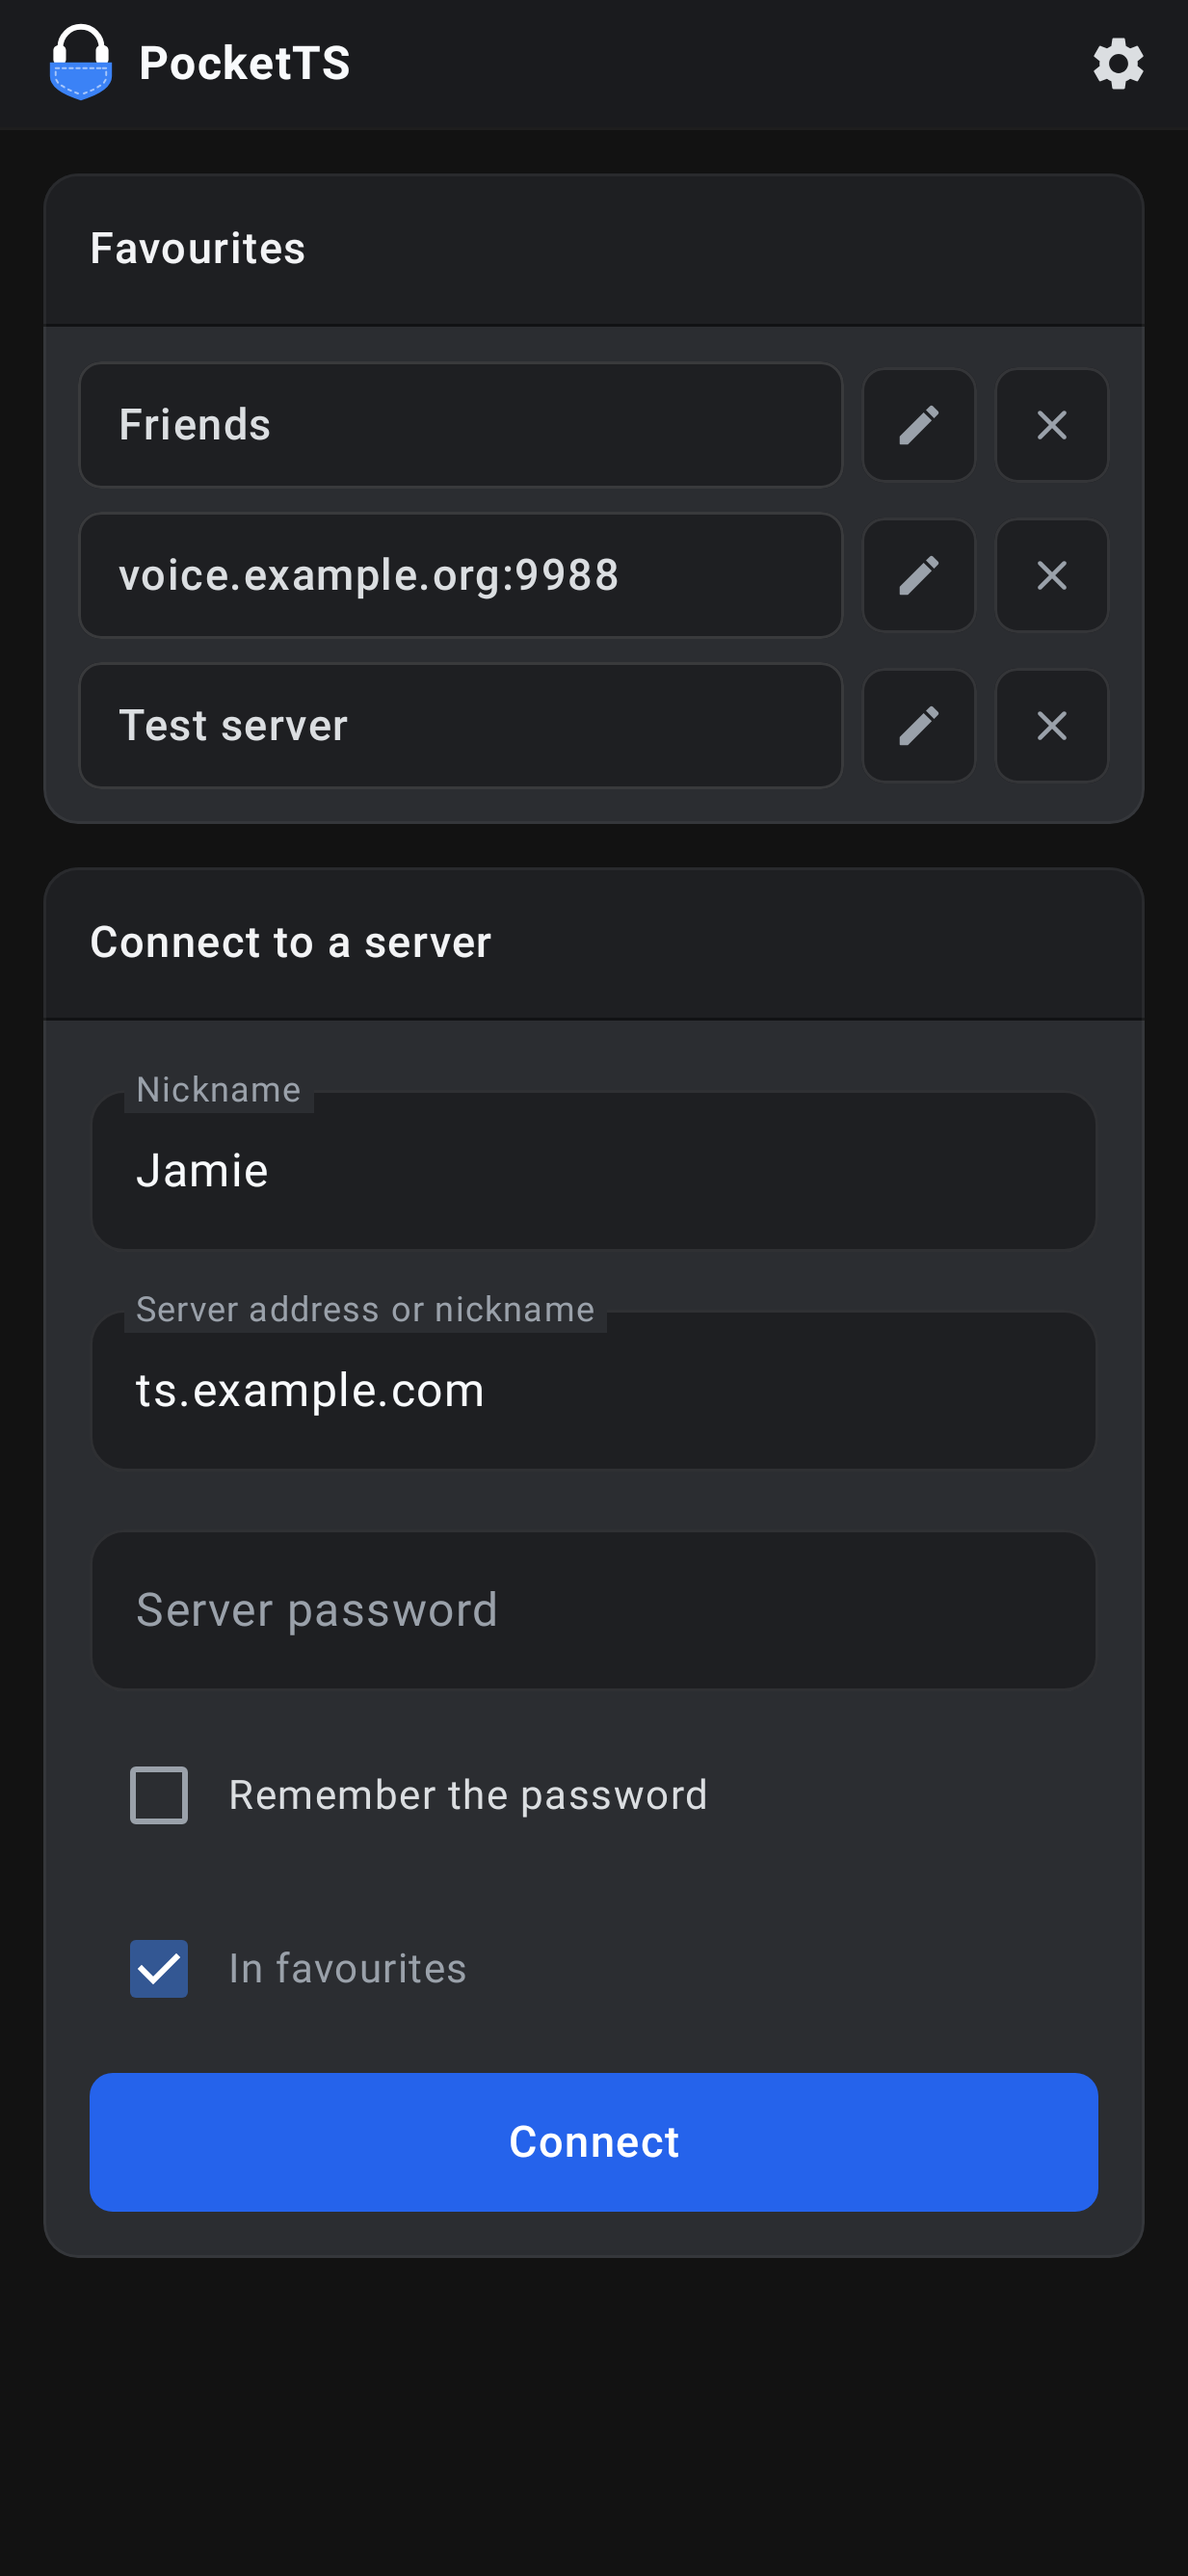
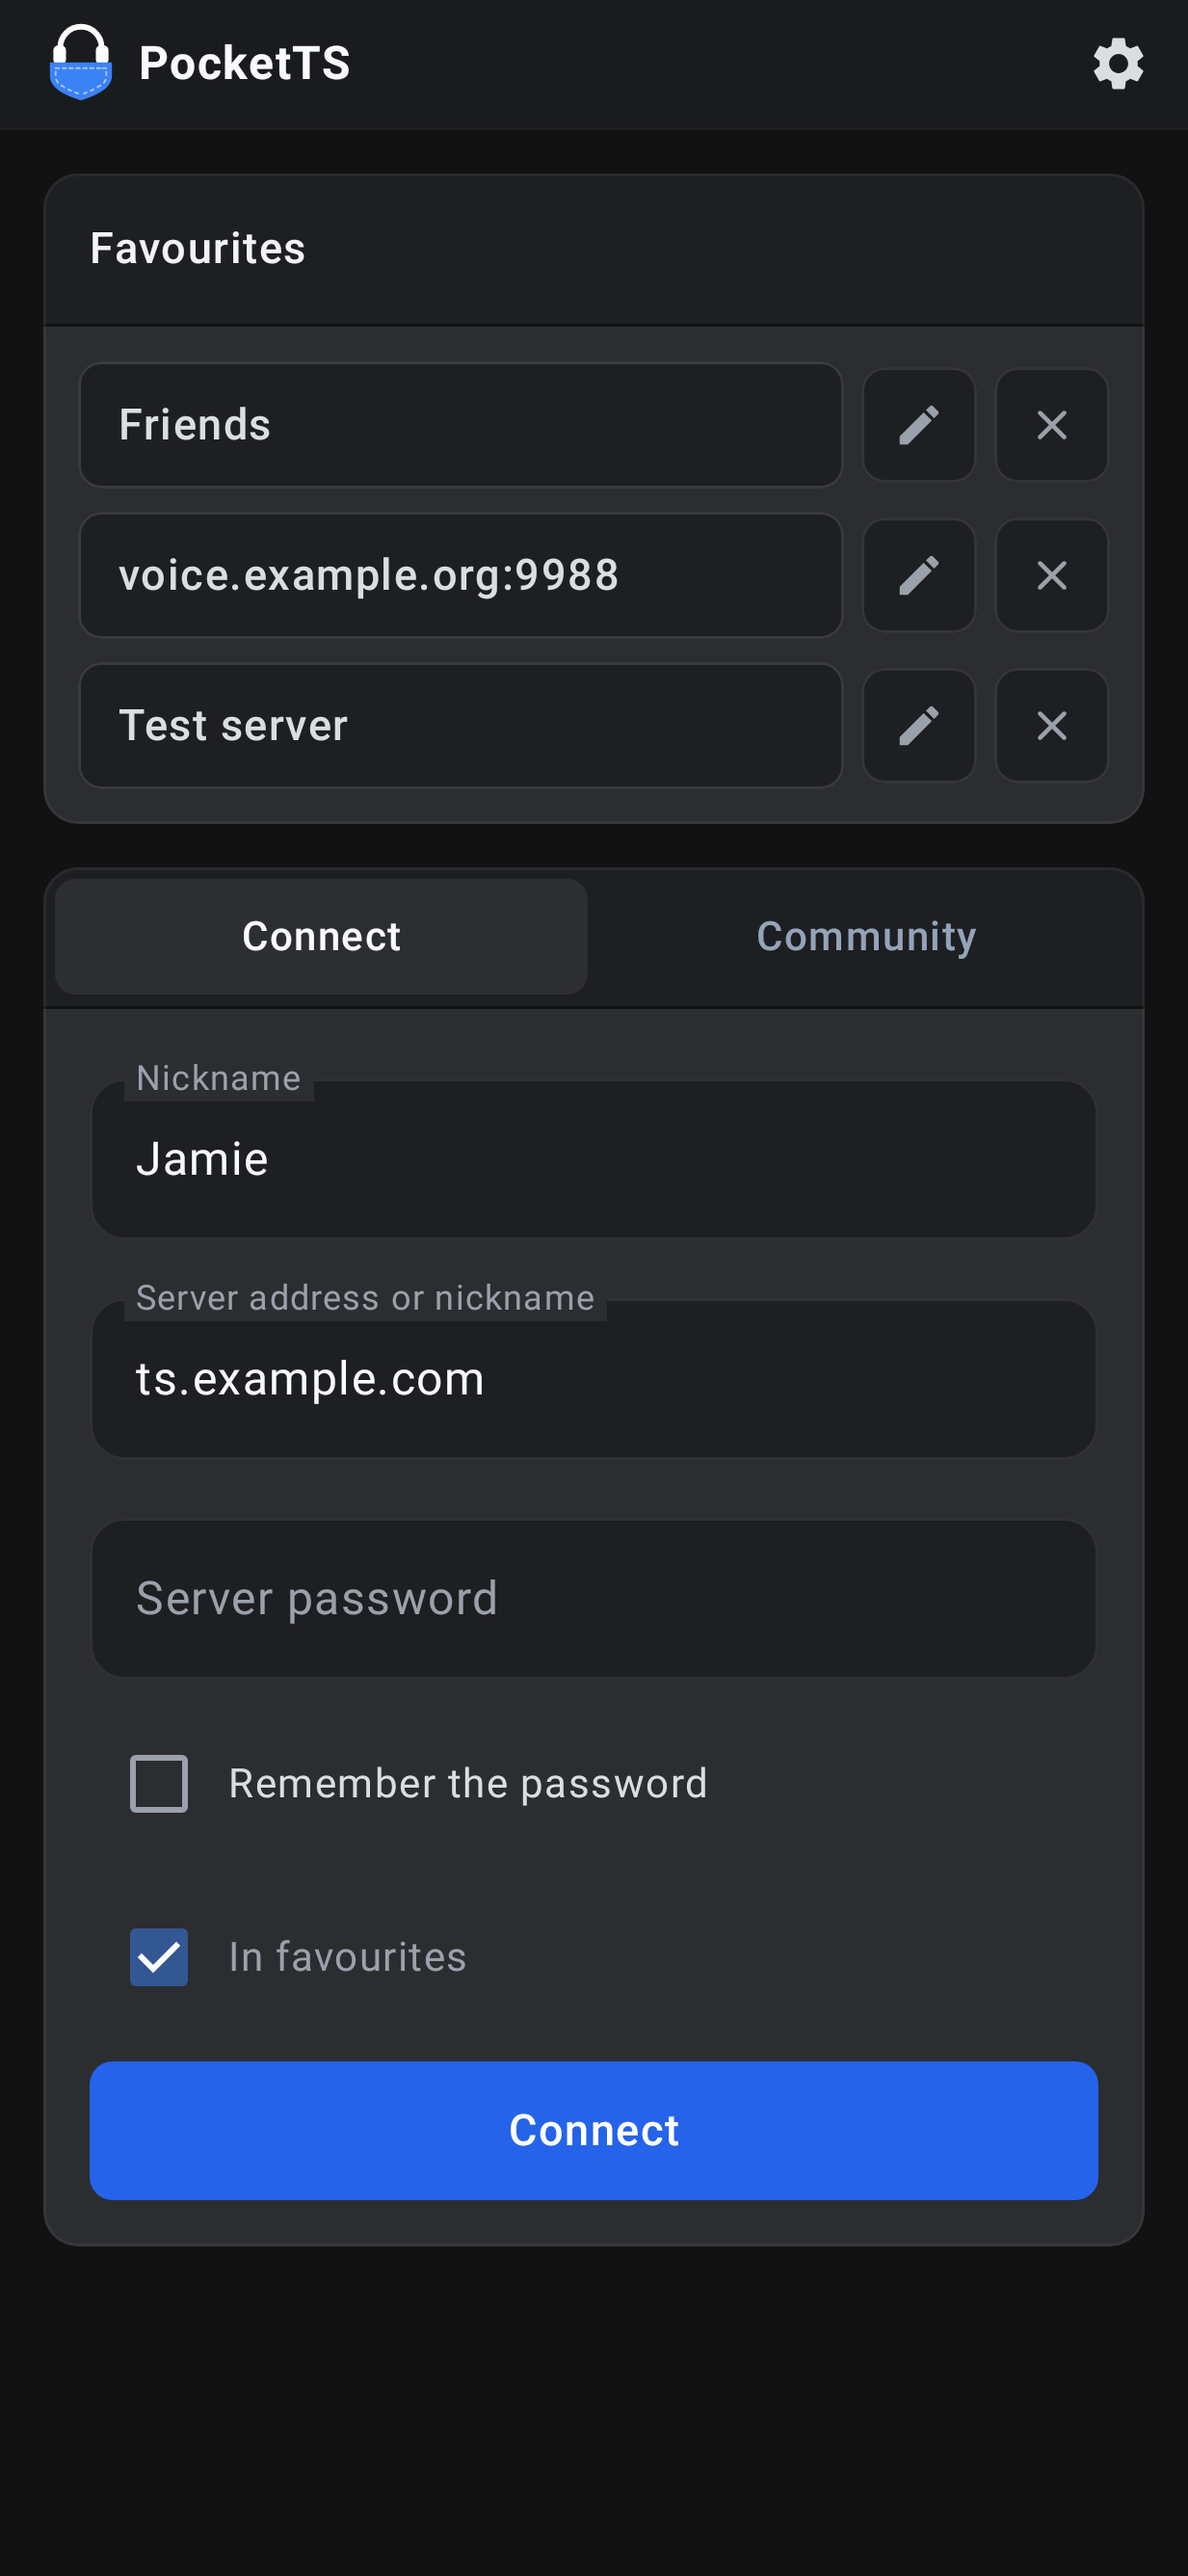
Connect screen: TeamSpeak's community servers on their own page
TeamSpeak's six official public community servers (worldwide, Europe
East, EMEA, Asia-Pacific, Latin America, North America) are one tap
away. The connect panel has two pages, Connect and Community, with a
switch as its top bar and a swipe between them; the Community page has
the same nickname field, a note that the servers are run by TeamSpeak
and that PocketTS is unofficial, and the servers. Only TeamSpeak's own
servers are listed, by the address or server nickname the TeamSpeak app
shows. In all eight languages; README and the Play listing mention it.

diff --git a/app/src/main/kotlin/io/github/korppujauho/pocketts/ui/ConnectScreen.kt b/app/src/main/kotlin/io/github/korppujauho/pocketts/ui/ConnectScreen.kt
@@ -16,6 +16,7 @@ import androidx.compose.material.icons.rounded.Edit
 import androidx.compose.foundation.layout.WindowInsets
 import androidx.compose.foundation.layout.fillMaxSize
 import androidx.compose.foundation.layout.fillMaxWidth
+import androidx.compose.foundation.layout.height
 import androidx.compose.foundation.layout.imePadding
 import androidx.compose.foundation.layout.padding
 import androidx.compose.foundation.layout.safeDrawing
@@ -46,6 +47,9 @@ import androidx.compose.ui.text.style.TextOverflow
 import androidx.compose.ui.unit.dp
 import androidx.compose.ui.unit.sp
 import androidx.compose.ui.res.stringResource
+import androidx.compose.foundation.layout.Box
+import androidx.compose.foundation.selection.selectable
+import kotlinx.coroutines.launch
 import io.github.korppujauho.pocketts.Favorite
 import io.github.korppujauho.pocketts.R
 
@@ -97,20 +101,34 @@ fun ConnectScreen(
                     }
                 }
             }
-            Panel(Modifier.fillMaxWidth(), header = {
-                Text(stringResource(R.string.connect_title), color = Ts.title, fontWeight = FontWeight.SemiBold, fontSize = 15.sp)
-            }) {
-                Column(Modifier.padding(16.dp), verticalArrangement = Arrangement.spacedBy(12.dp)) {
-                    TsField(nick, { nick = it }, stringResource(R.string.nickname))
-                    TsField(addr, { addr = it }, stringResource(R.string.server_address), placeholder = "ts.example.com", keyboard = KeyboardType.Uri)
-                    TsField(pw, { pw = it }, stringResource(R.string.server_password), password = true, imeAction = ImeAction.Go)
-                    CheckRow(stringResource(R.string.remember_password), remember) { remember = it }
-                    // Always there; ticked (and fixed) for a server that already is a favourite
-                    CheckRow(stringResource(if (known) R.string.favourites_in else R.string.favourites_save), favorite || known, enabled = !known) { favorite = it }
-                    UpdateCard()
-                    PrimaryButton(
-                        stringResource(R.string.connect), enabled = nick.isNotBlank() && addr.isNotBlank(), modifier = Modifier.fillMaxWidth(),
-                    ) { actions.connect(addr.trim(), nick.trim(), pw, remember, favorite && !known) }
+            // Connecting by address, and TeamSpeak's community servers: two pages of one panel, its switch on top, and
+            // a swipe goes between them too
+            val pages = androidx.compose.foundation.pager.rememberPagerState { 2 }
+            val scope = androidx.compose.runtime.rememberCoroutineScope()
+            Column(
+                Modifier.fillMaxWidth().clip(RoundedCornerShape(12.dp)).background(Ts.panel)
+                    .border(1.dp, Ts.hairline, RoundedCornerShape(12.dp)),
+            ) {
+                PageSwitch(pages.currentPage) { scope.launch { pages.animateScrollToPage(it) } }
+                Box(Modifier.fillMaxWidth().height(1.dp).background(Color(0xFF111214)))
+                androidx.compose.foundation.pager.HorizontalPager(pages, Modifier.fillMaxWidth(), verticalAlignment = Alignment.Top) { page ->
+                    Column(Modifier.padding(16.dp), verticalArrangement = Arrangement.spacedBy(12.dp)) {
+                        // The same nickname on both pages
+                        TsField(nick, { nick = it }, stringResource(R.string.nickname))
+                        if (page == 0) {
+                            TsField(addr, { addr = it }, stringResource(R.string.server_address), placeholder = "ts.example.com", keyboard = KeyboardType.Uri)
+                            TsField(pw, { pw = it }, stringResource(R.string.server_password), password = true, imeAction = ImeAction.Go)
+                            CheckRow(stringResource(R.string.remember_password), remember) { remember = it }
+                            // Always there; ticked (and fixed) for a server that already is a favourite
+                            CheckRow(stringResource(if (known) R.string.favourites_in else R.string.favourites_save), favorite || known, enabled = !known) { favorite = it }
+                            UpdateCard()
+                            PrimaryButton(
+                                stringResource(R.string.connect), enabled = nick.isNotBlank() && addr.isNotBlank(), modifier = Modifier.fillMaxWidth(),
+                            ) { actions.connect(addr.trim(), nick.trim(), pw, remember, favorite && !known) }
+                        } else {
+                            CommunityServers(nick.trim()) { actions.connect(it, nick.trim(), "", false, false) }
+                        }
+                    }
                 }
             }
         }
@@ -122,6 +140,49 @@ fun ConnectScreen(
     editing?.let { f ->
         FavoriteDialog(f, onSave = { actions.saveFavorite(f, it); editing = null }, onDelete = { actions.removeFavorite(f); editing = null }) {
             editing = null
+        }
+    }
+}
+
+/** The panel's top bar: its two pages, Connect and the community servers, as the server screen's Channels/Chat switch. */
+@Composable
+private fun PageSwitch(page: Int, onPage: (Int) -> Unit) {
+    Row(Modifier.fillMaxWidth().background(Ts.card).padding(4.dp), horizontalArrangement = Arrangement.spacedBy(4.dp)) {
+        for ((i, label) in listOf(stringResource(R.string.connect), stringResource(R.string.community_tab)).withIndex()) {
+            val active = i == page
+            Box(
+                Modifier.weight(1f).clip(RoundedCornerShape(7.dp)).background(if (active) Color(0x12FFFFFF) else Color.Transparent)
+                    .selectable(selected = active, role = androidx.compose.ui.semantics.Role.Tab) { onPage(i) }
+                    .padding(vertical = 8.dp),
+                contentAlignment = Alignment.Center,
+            ) {
+                Text(label, color = if (active) Ts.bright else Color(0xFF94A3B8), fontWeight = FontWeight.SemiBold, fontSize = 14.sp)
+            }
+        }
+    }
+}
+
+/** TeamSpeak's community servers (see [io.github.korppujauho.pocketts.CommunityServers]): one tap joins, with [nick]. */
+@Composable
+private fun CommunityServers(nick: String, onJoin: (String) -> Unit) {
+    Text(
+        stringResource(if (nick.isBlank()) R.string.community_desc_no_nick else R.string.community_desc),
+        color = Ts.muted, fontSize = 12.5.sp, lineHeight = 16.sp, modifier = Modifier.padding(horizontal = 2.dp),
+    )
+    Column(verticalArrangement = Arrangement.spacedBy(8.dp)) {
+        for (s in io.github.korppujauho.pocketts.CommunityServers.list) {
+            Row(
+                Modifier.fillMaxWidth().clip(RoundedCornerShape(8.dp)).background(Ts.card)
+                    .border(1.dp, Color(0x1FFFFFFF), RoundedCornerShape(8.dp))
+                    .clickable(enabled = nick.isNotBlank()) { onJoin(s.address) }.padding(horizontal = 14.dp, vertical = 10.dp),
+                verticalAlignment = Alignment.CenterVertically,
+            ) {
+                Text(
+                    stringResource(s.name), color = if (nick.isNotBlank()) Ts.text else Ts.muted, fontWeight = FontWeight.SemiBold,
+                    fontSize = 15.sp, maxLines = 1, overflow = TextOverflow.Ellipsis, modifier = Modifier.weight(1f),
+                )
+                Text(s.address, color = Ts.muted, fontSize = 12.sp, maxLines = 1, modifier = Modifier.padding(start = 8.dp))
+            }
         }
     }
 }

diff --git a/app/src/main/kotlin/io/github/korppujauho/pocketts/CommunityServers.kt b/app/src/main/kotlin/io/github/korppujauho/pocketts/CommunityServers.kt
@@ -1,0 +1,21 @@
+package io.github.korppujauho.pocketts
+
+import androidx.annotation.StringRes
+
+/**
+ * TeamSpeak's own community servers, open to everyone and moderated by TeamSpeak: somewhere to try PocketTS without a
+ * server of one's own. By the address or server nickname the TeamSpeak app shows for them (a nickname is looked up as
+ * any typed one is). Only TeamSpeak's official ones: other servers are joined by their address, link or nickname.
+ */
+object CommunityServers {
+    data class Server(val address: String, @StringRes val name: Int)
+
+    val list = listOf(
+        Server("ts-community", R.string.community_worldwide),
+        Server("eu-east-1", R.string.community_eu_east),
+        Server("emea", R.string.community_emea),
+        Server("apac.tmspk.net", R.string.community_apac),
+        Server("latam.tmspk.net", R.string.community_latam),
+        Server("na-tmspk", R.string.community_na),
+    )
+}

diff --git a/docs/play/listing.md b/docs/play/listing.md
@@ -40,6 +40,7 @@ STREAMS
 
 AND MORE
 • Connect by address, server nickname, TeamSpeak link or invite
+• TeamSpeak's own public community servers, one tap away
 • Use a privilege key from a server's admin
 • Favourite servers, and switching between them
 • Mute, sound and disconnect buttons in the notification
@@ -53,7 +54,7 @@ No account, no ads, no analytics. Your identity and passwords are encrypted on y
 OPEN SOURCE
 PocketTS is free software (GPL-3.0). The source code, the changelog and the issue tracker are on GitHub: https://github.com/KorppuJauho/pocketts
 
-PocketTS is an independent app. It isn't made by, endorsed by or affiliated with TeamSpeak Systems GmbH. TeamSpeak is a trademark of its owner. You need a TeamSpeak server to connect to.
+PocketTS is an independent app. It isn't made by, endorsed by or affiliated with TeamSpeak Systems GmbH. TeamSpeak is a trademark of its owner. Connect to any TeamSpeak server, or try one of TeamSpeak's public community servers.
 ```
 
 ## Graphics

diff --git a/README.md b/README.md
@@ -20,8 +20,9 @@ to join.
   button for the phone's other back lenses.
 - **Admin tools** (optional): move, kick and ban people, and add, edit, move and delete channels. The server decides
   who may.
-- **Connecting** by address, server nickname, TeamSpeak link or invite; favourites; privilege keys from a server's
-  admin; reconnecting by itself when the network changes; and mute, sound and disconnect buttons in the notification.
+- **Connecting** by address, server nickname, TeamSpeak link or invite; favourites; TeamSpeak's own public community
+  servers, one tap away; privilege keys from a server's admin; reconnecting by itself when the network changes; and
+  mute, sound and disconnect buttons in the notification.
 - **Settings** and sounds for events.
 - **Languages:** English, Finnish, German, Spanish, French, Simplified Chinese, Russian and Czech (see
   [TRANSLATIONS.md](TRANSLATIONS.md); corrections welcome).
